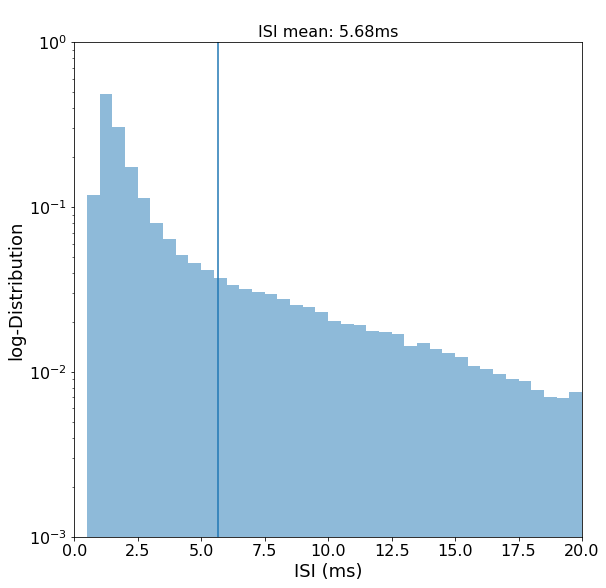
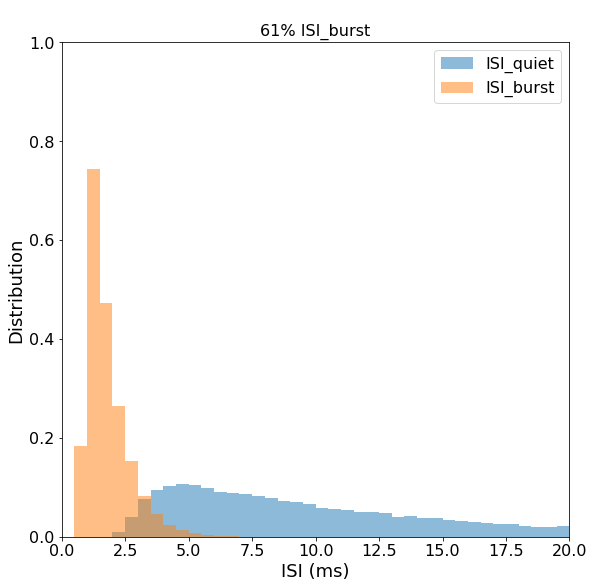
q and b gifs

diff --git a/plot_hists_segments.py b/plot_hists_segments.py
@@ -145,6 +145,7 @@ def plot_separately(name, log = False, cut=20, fit = None):
                         num_ISI = np.sum([len(neuron) for neuron in results['ISI']])
                         num_ISI_burst = np.sum([len(neuron) for neuron in results['ISI_burst']])
                         title = str(int(num_ISI_burst/num_ISI*100))+'% ISI_burst'
+                        plt.legend(fontsize = 16)
                     if name == 'all':
                         num_ISI = np.sum([len(neuron) for neuron in results['ISI']])
                         plt.axvline(means[key])
@@ -155,11 +156,11 @@ def plot_separately(name, log = False, cut=20, fit = None):
                     if name == 'burst':
                         ax.set_title(means_title_part)
                     
-                    plt.title(title+means_title_part, fontsize = 16)
+                    plt.title('\n'+title, fontsize = 16)
                     plt.xticks(fontsize=16)
                     plt.yticks(fontsize=16)
                     plt.xlabel('ISI (ms)', fontsize = 18)
-                    plt.ylabel('log-Distribution', fontsize = 18)                    
+                    plt.ylabel('Distribution', fontsize = 18)                    
                     plt.savefig('pictures_presentation/'+file_name+'.png', bbox_inches = 'tight')
                     plt.close()
                 except IOError:
@@ -169,5 +170,5 @@ def plot_separately(name, log = False, cut=20, fit = None):
        
         
     
-plot_separately('all', log = True, cut = 20)
+plot_separately('quiet_and_burst', log = False , cut = 20)
 
